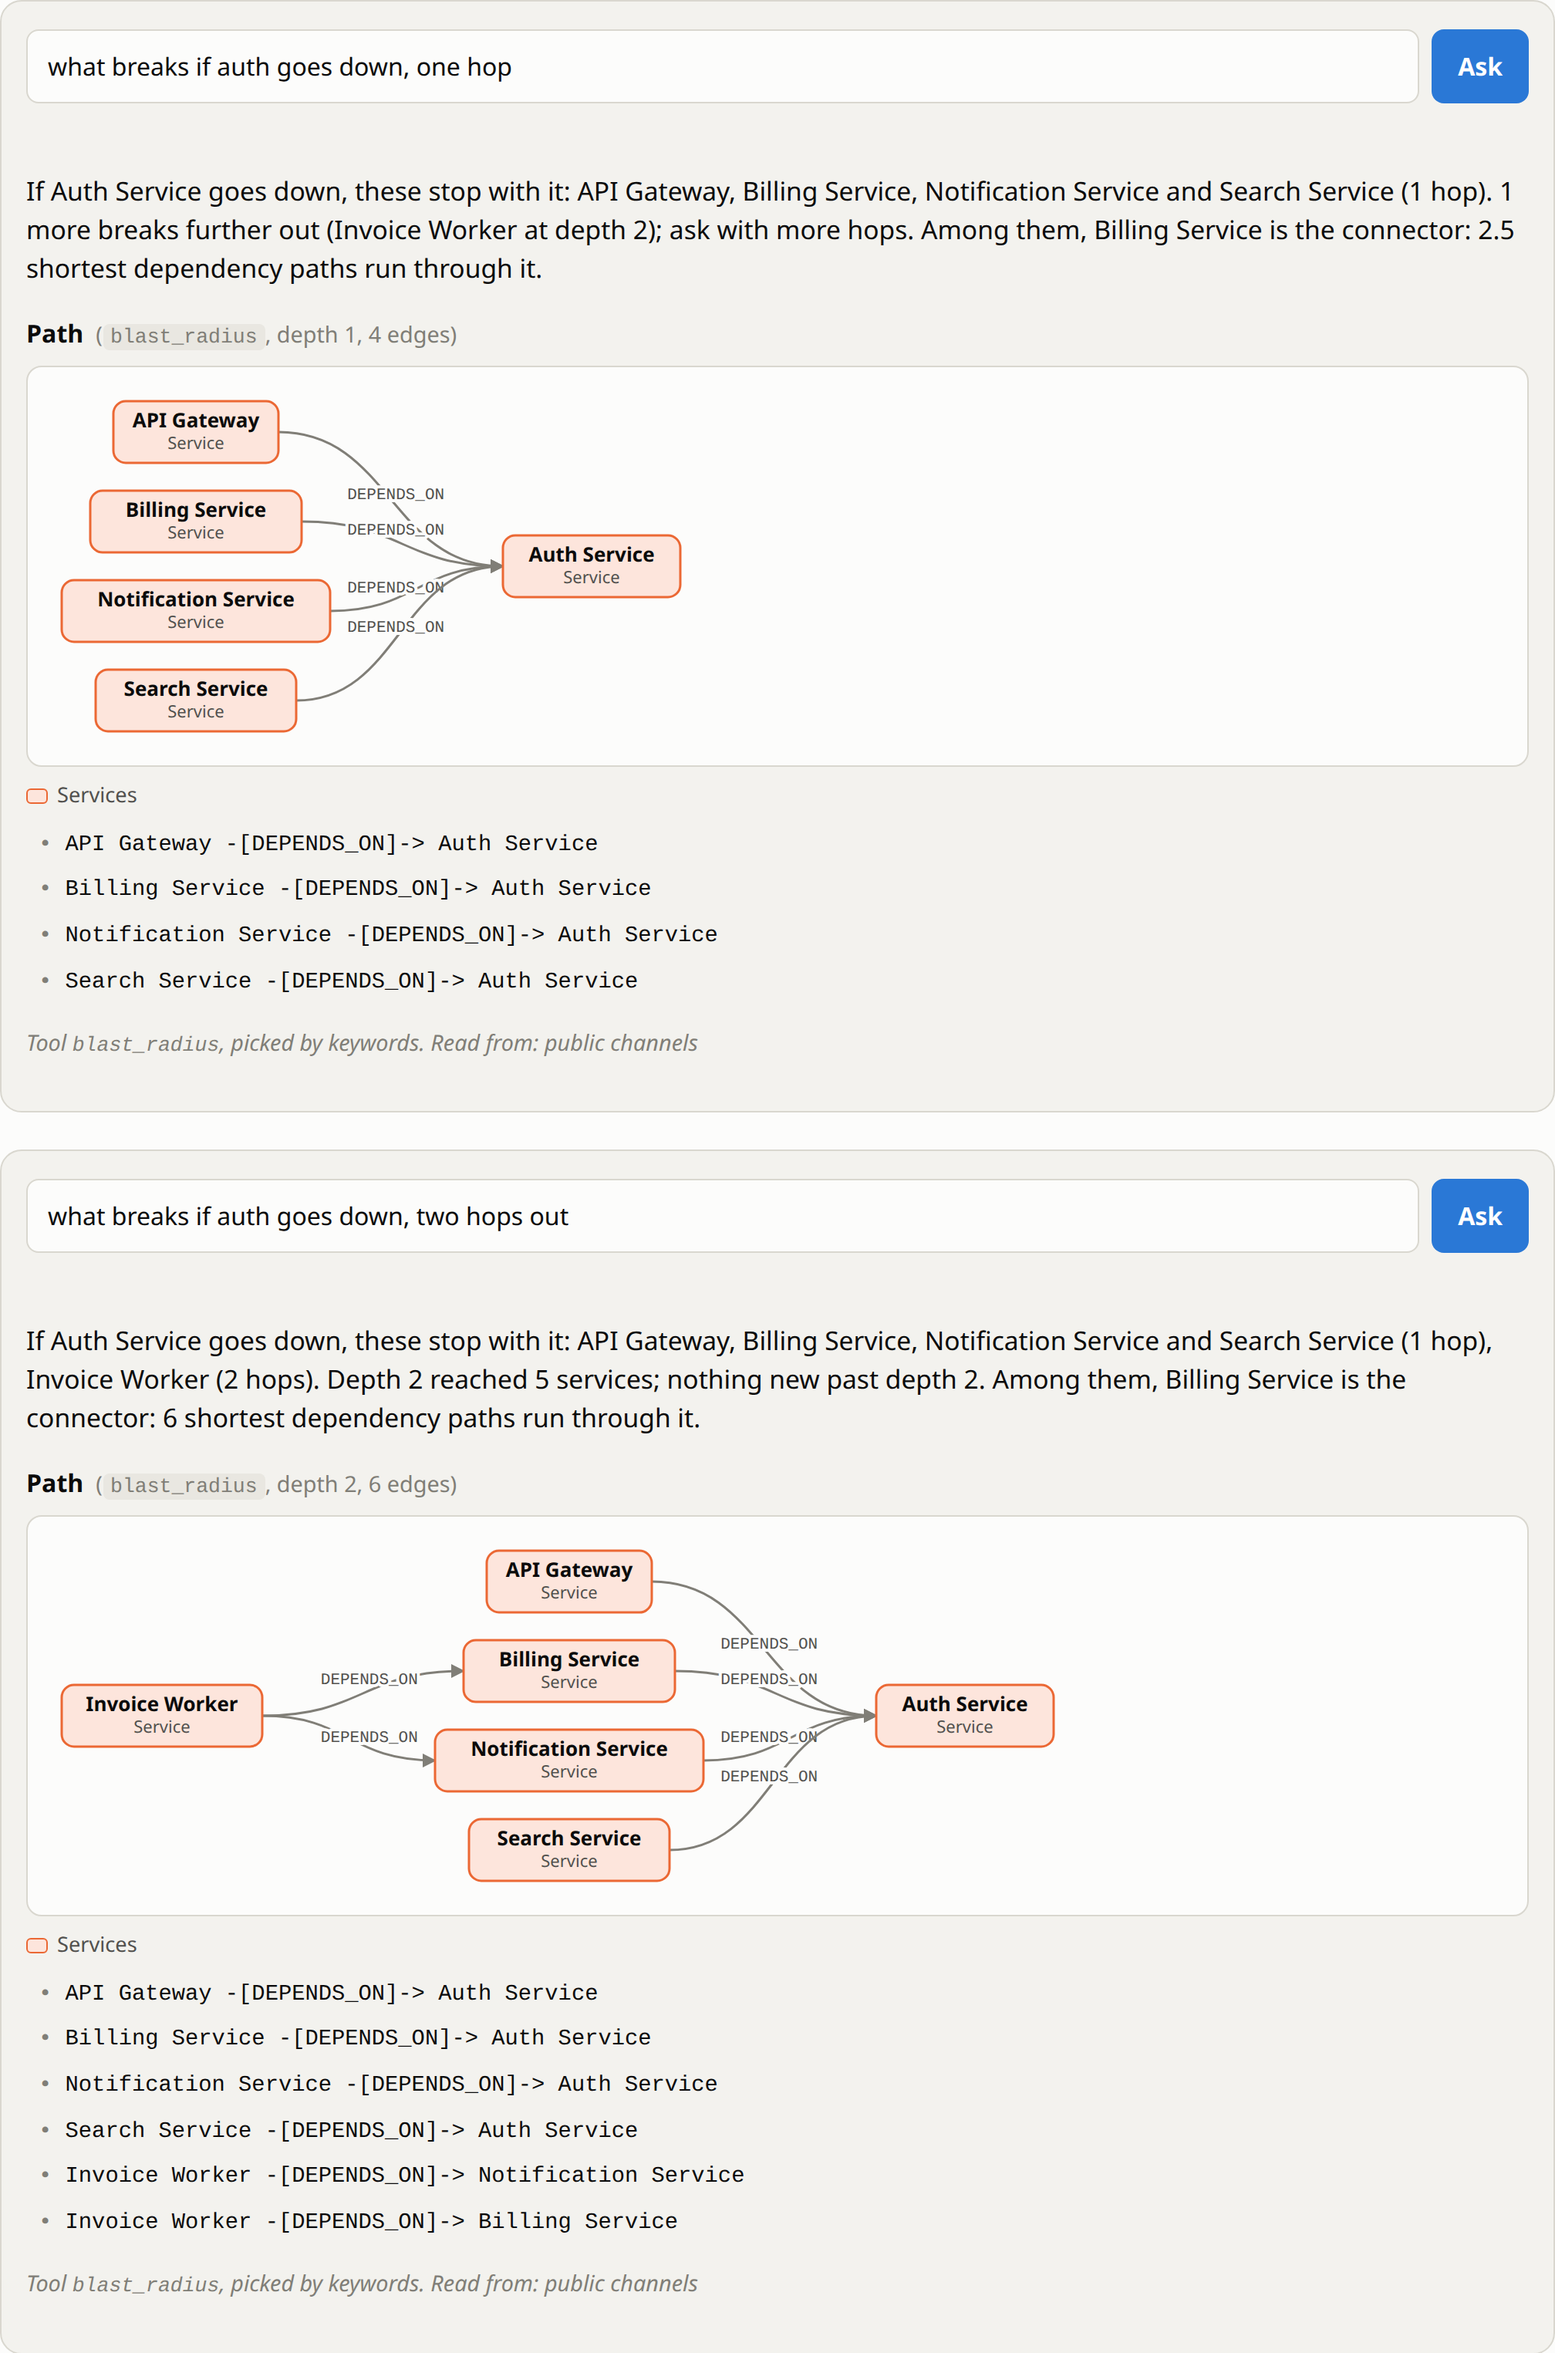
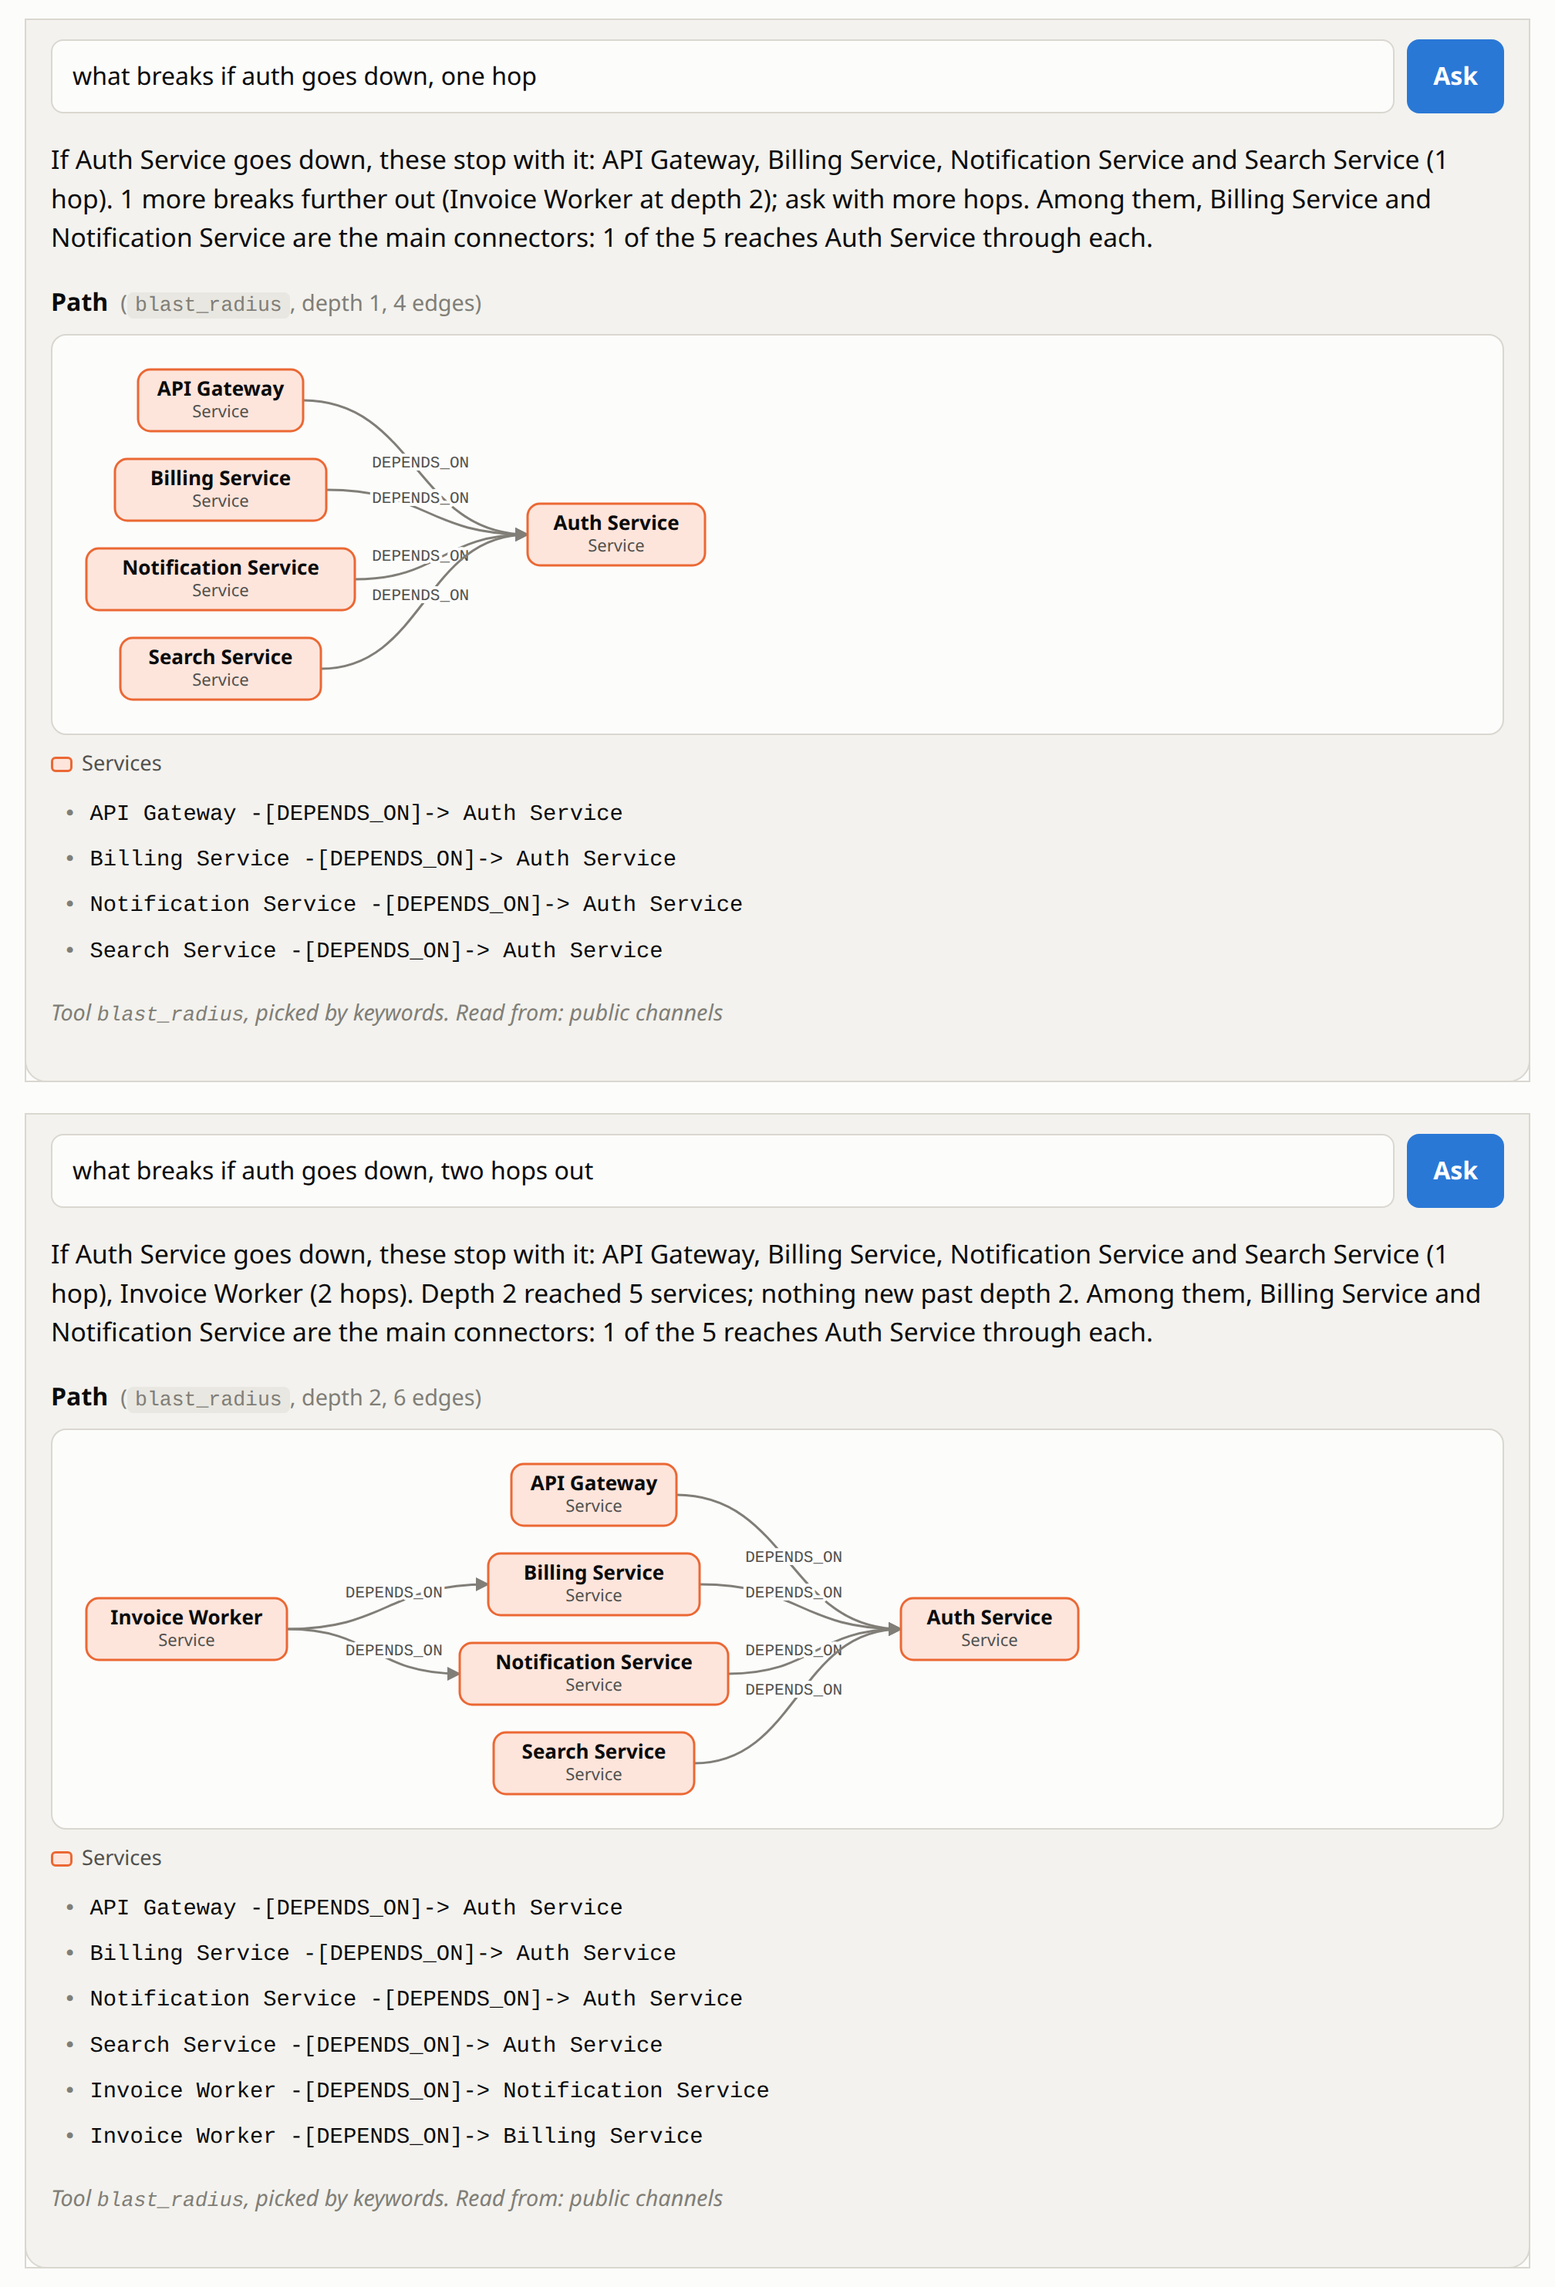
Pin the counted connector in the recording script and the README, and retake blog image 5.
Since #66 blast radius names the main connector from the routes it walked.
Steps 4 and 4b, B3 and the launch beat's L2 now quote the replies on main, and
B4 names the renewals owner. The README's blast_radius section shows the one
shipped query with its kind filter and explains the count in place of the
betweenness call. Image 5 showed the sampled sentence ("2.5 shortest
dependency paths", then 6 for the same service); it is retaken from the ask
page on the synthetic company with the counted one.

Changed region(s): [[0.0, 0.0, 1.0, 0.4654], [0.0, 0.4965, 1.0, 0.8067], [0.0, 0.8067, 0.4688, 0.9929]]

diff --git a/docs/STRATEGY.md b/docs/STRATEGY.md
@@ -253,8 +253,8 @@ Type these exactly, in this order, in the dev Slack workspace connected to produ
 | 1 | In the channel: `@Company Brain who owns the memory layer, and who else has worked on it` | `who_knows` | `Tushar -[OWNS]-> Memory layer`, then one pull request chain: `Tushar -[AUTHORED]-> graph_hacks#N`, `graph_hacks#N -[TOUCHES]-> Memory layer`, and a reviewer's `-[REVIEWED]->` line. "The answer is the path." |
 | 2 | `@Company Brain why do we store memory in FalkorDB instead of a hosted memory API` | `decision_trace` | "Decided 15 Oct 2026. Proposed by Tushar.", then `Tushar -[PROPOSED]-> Store memory in FalkorDB instead of a hosted memory API`, `-[BASED_ON]-> Problem statement`, `-[BASED_ON]-> Slack guide`, and the design chat `-[ABOUT]->` the decision. "Decision, author, sources, and the conversation it came from." |
 | 3 | `@Company Brain why did we cut vector recall` | `decision_trace` | "Recall follows MENTIONS edges, vector search cut. Decided 17 Oct 2026." and "This replaced *Hybrid recall with a vector index on Memory.embedding* (decided 17 Oct 2026)"; path lines `Recall follows MENTIONS edges, vector search cut -[SUPERSEDES]-> Hybrid recall with a vector index on Memory.embedding` and `-[BASED_ON]-> docs/STRATEGY.md`. "Knowledge stays current without deleting history." Optional live write: `@Company Brain decision: every model profile stays on Haiku through the demo`, Approve on the card that names what it replaces, then `why haiku` to show the chain grow. |
-| 4 | `@Company Brain what breaks if the claude api goes down, one hop` | `blast_radius`, depth 1 | Exactly one path line, `LLM gateway -[DEPENDS_ON]-> Claude API`, and the reply, pinned word for word by the production demo test: "If Claude API goes down, these stop with it: LLM gateway (1 hop). 4 more break further out (Memory layer at depth 2, Slack workspace at depth 2, Turn engine at depth 2 and Slack events API at depth 3); ask with more hops." Then in the same thread: `and three hops out` |
-| 4b | (thread) `and three hops out` | `blast_radius`, depth 3, subject from the thread | `Slack workspace -[DEPENDS_ON]-> LLM gateway`, `Turn engine -[DEPENDS_ON]-> LLM gateway`, `Memory layer -[DEPENDS_ON]-> LLM gateway`, `Slack events API -[DEPENDS_ON]-> Slack workspace`, and "Depth 3 reached 5 services; nothing new past depth 3." "Three hops. A search box could not." |
+| 4 | `@Company Brain what breaks if the claude api goes down, one hop` | `blast_radius`, depth 1 | Exactly one path line, `LLM gateway -[DEPENDS_ON]-> Claude API`, and the reply, whose opening the production demo test pins word for word: "If Claude API goes down, these stop with it: LLM gateway (1 hop). 4 more break further out (Memory layer at depth 2, Slack workspace at depth 2, Turn engine at depth 2 and Slack events API at depth 3); ask with more hops. Among them, LLM gateway is the main connector: 4 of the 5 reach Claude API through it." Then in the same thread: `and three hops out` |
+| 4b | (thread) `and three hops out` | `blast_radius`, depth 3, subject from the thread | `Slack workspace -[DEPENDS_ON]-> LLM gateway`, `Turn engine -[DEPENDS_ON]-> LLM gateway`, `Memory layer -[DEPENDS_ON]-> LLM gateway`, `Slack events API -[DEPENDS_ON]-> Slack workspace`, and "Depth 3 reached 5 services; nothing new past depth 3. Among them, LLM gateway is the main connector: 4 of the 5 reach Claude API through it." "Three hops. A search box could not." |
 | 5 | `@Company Brain ticket: scheduler jobs run twice after a restart` | approval card | Read the card: "File a ticket titled *scheduler jobs run twice after a restart* in the company graph, linked to *Scheduler*". Click Approve. |
 | 5b | (reply after Approve) | `ingest_ticket` | `TKT-106 -[ABOUT]-> Scheduler`, `Tushar -[OWNS]-> Scheduler`. "Writes wait for a human. The card named the target before the write." |
 | 5c | (thread) `who should look at it` | `who_knows`, subject from the thread | "TKT-106 is about Scheduler. Ask first: Tushar (owns Scheduler)." with `TKT-106 -[ABOUT]-> Scheduler` and `Tushar -[OWNS]-> Scheduler`. |
@@ -389,8 +389,8 @@ On the local replay. Hold every reply three seconds.
 | --- | --- | --- | --- |
 | B1 | The import command from `docs/ONBOARDING-TEAMS.md`, against `http://localhost:8000/ops/import` with the Sales template | `POST /ops/import` | The merge report: what was created. Target until coder B's PR lands; copy the command from the guide exactly |
 | B2 | Open `http://localhost:8000/team/sales` | team page | The groups by kind and "Run by" on the renewals process |
-| B3 | Ask page: `what breaks if hubspot goes down` | `blast_radius` | "If the HubSpot system goes down, the Renewals process stalls (1 hop) and the Pricing playbook no longer applies (2 hops). Depth 2 reached 2 things that depend on it; nothing new past depth 2." The wording is from #64; the names are a target until the Sales seed's test pins them |
-| B4 | Ask page: `what if <the renewals owner> leaves` | `if_person_leaves` | Target: what loses its owner, then who knows each thing next. Exact text when coder A's tool lands |
+| B3 | Ask page: `what breaks if hubspot goes down` | `blast_radius` | "If the HubSpot system goes down, the Renewals process stalls (1 hop) and the Pricing playbook no longer applies (2 hops). Depth 2 reached 2 things that depend on it; nothing new past depth 2. Among them, the Renewals process is the main connector: 1 of the 2 reaches the HubSpot system through it." The wording is from #64 and #66; the names are a target until the Sales seed's test pins them |
+| B4 | Ask page: `what if priya shah leaves` | `if_person_leaves` | Target: what loses its owner, then who knows each thing next. Priya Shah runs Renewals in the Sales seed ("The Renewals process is run by Priya Shah for the Sales team."). Exact text when coder A's tool lands |
 
 Run S1 (`who owns renewals, and who else has worked on it`) and S3 (`why did we change pricing`) on the same instance before the take as checks. They are not on screen.
 
@@ -401,7 +401,7 @@ A fallback if the local segment cannot be recorded, or a bonus in step 7's slot 
 | Step | Type | Answers with | Read aloud |
 | --- | --- | --- | --- |
 | L1 | `@Company Brain onboard team: launch \| members: @Tushar \| owns: Hackathon submission (process), Demo video (product), Blog post (product), Recording script (playbook)` (syntax is a target) | approval card | The card's preview of what it will create. Click Approve. "Onboarding is a write, so it waits for a human too." |
-| L2 | `@Company Brain who runs the hackathon submission` | `who_owns` | "The Hackathon submission process is run by Tushar. Run by the Launch team." Checked on the production seed with these nodes added by hand; coder A may reword the second sentence |
+| L2 | `@Company Brain who runs the hackathon submission` | `who_owns` | "The Hackathon submission process is run by Tushar for the Launch team." Checked on the production seed after #66, with these nodes added by hand |
 
 Add only the teammates who actually work on the launch. The kinds are honest: the recording script in this file is literally a playbook. The nodes stay in production's graph after the video, which is fine because they are true.
 

diff --git a/README.md b/README.md
@@ -247,16 +247,14 @@ RETURN m.id, coalesce(m.text, m.content, ''), m.ts ORDER BY m.ts DESC LIMIT 1
 MATCH (d:Decision {id: $d}), (m:Memory {id: $m}) MERGE (d)-[:RECORDED_FROM]->(m)
 ```
 
-**blast_radius** (everything that depends on a service, grouped by hop). The walk always runs to the ceiling of six hops so the reply can say where it stopped finding anything new; the depth the asker named is clamped to an integer in Python and applied to the rows. The bound in the query is a constant, never a value from the question. Betweenness names the main connector among the services hit.
+**blast_radius** (everything that depends on a service, grouped by hop). The walk always runs to the ceiling of six hops so the reply can say where it stopped finding anything new; the depth the asker named is clamped to an integer in Python and applied to the rows. The bound in the query is a constant, never a value from the question. Accounts are kept off every route through `$excluded`. The main connector is counted in Python from the shortest routes this one query returns: the affected service that the most dependents reach the failed one through. The count is a whole number, the same on every run, and ties are named together ("Among them, LLM gateway is the main connector: 4 of the 5 reach Claude API through it"). FalkorDB's `algo.betweenness` is not used: it samples source nodes, and on both seeded graphs its top node disagreed with exact betweenness.
 
 ```cypher
 MATCH path = (dependent:Service)-[:DEPENDS_ON*1..6]->(service:Service {id: $id})
-RETURN dependent.id, dependent.name, length(path), [n IN nodes(path) | n.id], [n IN nodes(path) | n.name]
+WHERE all(n IN nodes(path) WHERE NOT coalesce(n.kind, 'service') IN $excluded)
+RETURN dependent.id, dependent.name, length(path), [n IN nodes(path) | n.id], [n IN nodes(path) | n.name],
+       coalesce(dependent.kind, 'service')
 ORDER BY length(path), dependent.name
-
-CALL algo.betweenness({nodeLabels: ['Service'], relationshipTypes: ['DEPENDS_ON']}) YIELD node, score
-WHERE node.id IN $ids AND score > 0
-RETURN node.name, score ORDER BY score DESC, node.name LIMIT 1
 ```
 
 **path_between** (why two things are connected). Every shortest route, in both edge directions, through the knowledge edges first and the team edges only if nothing else connects them; every node on the path must be readable; the route with the most `OWNS`, `DEPENDS_ON` and `TOUCHES` edges is shown and each hop is cited in the direction the edge really points:
